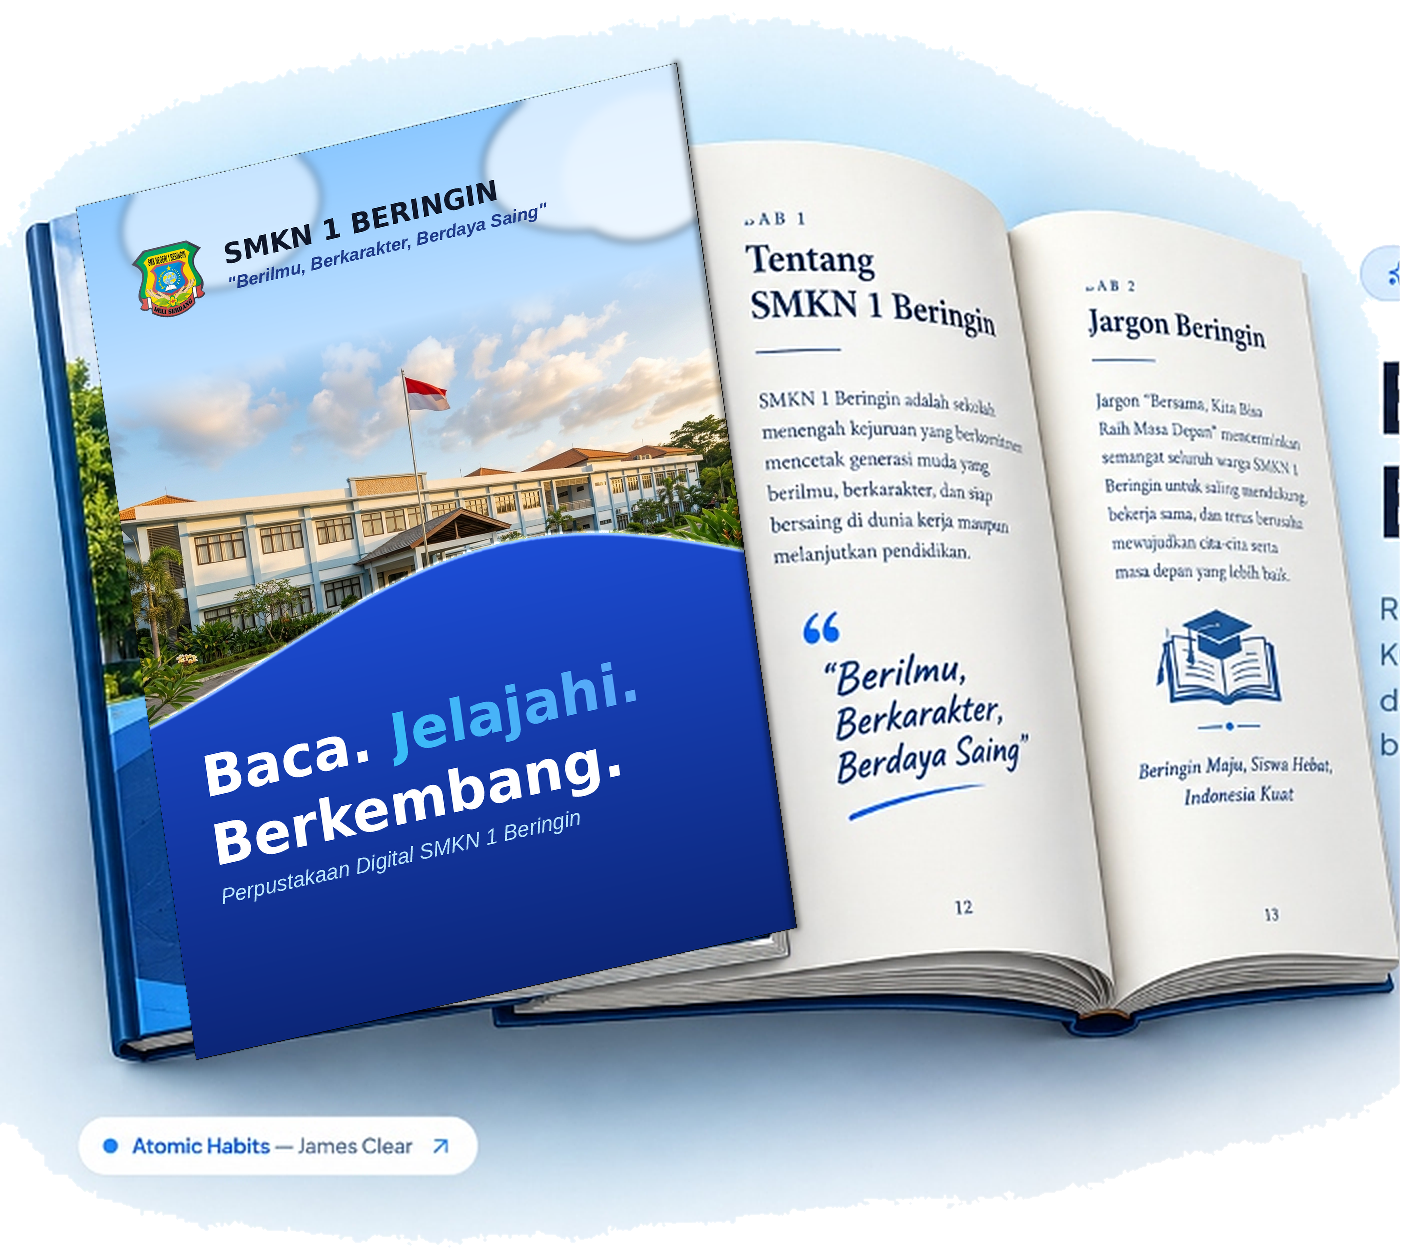
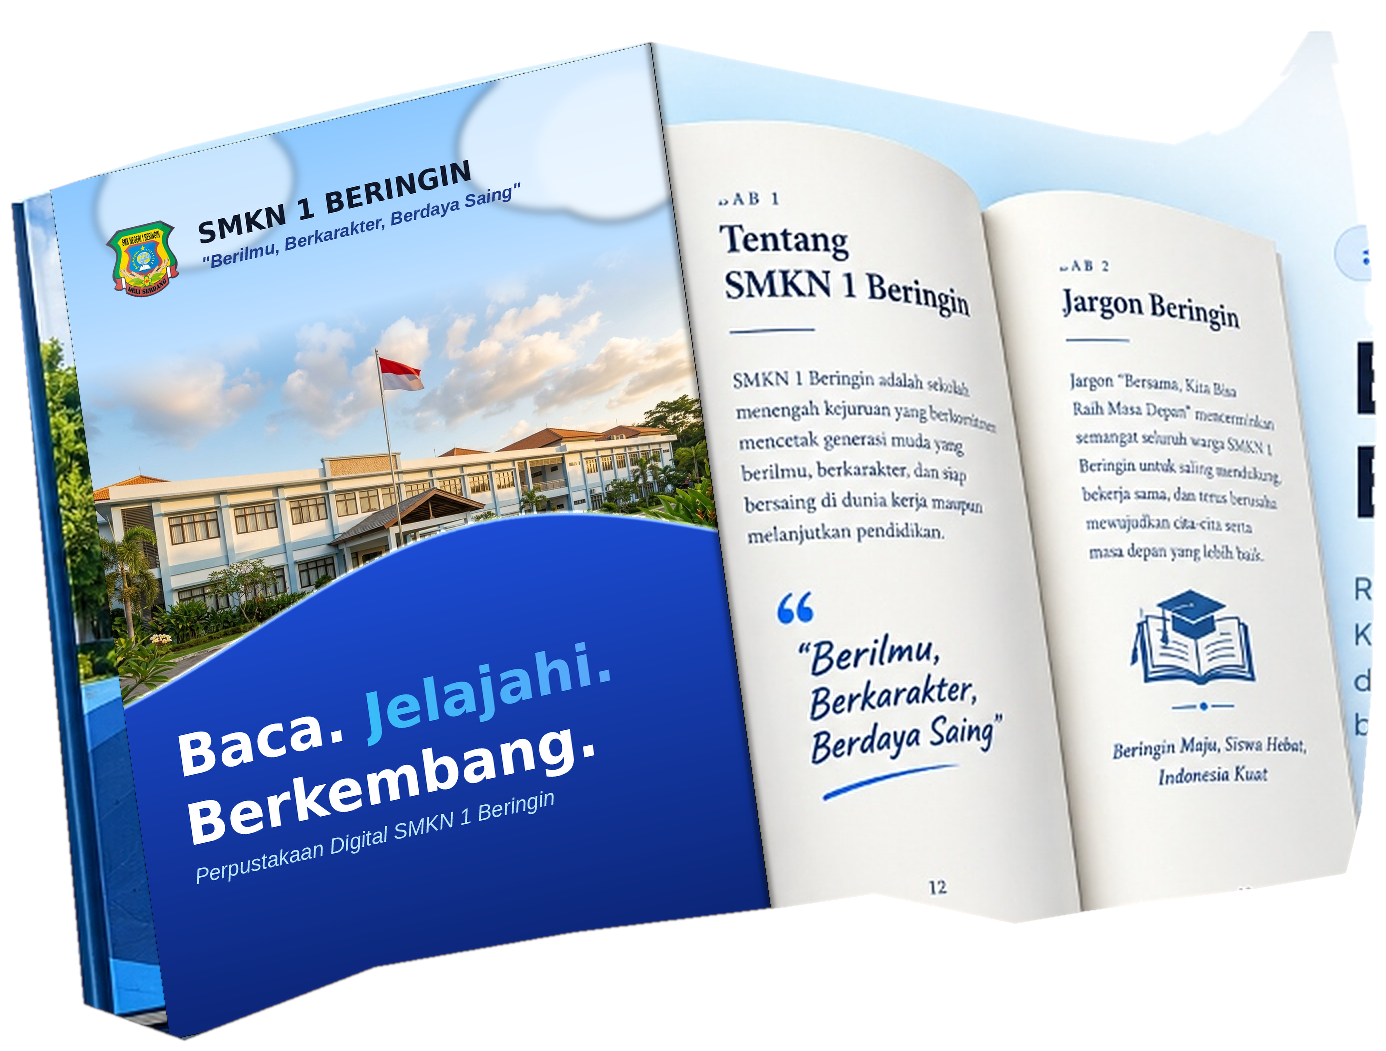
fix(showcase): sempurnakan kontur tepi spine kiri buku terbuka 3D dan tambahkan cache-busting agar browser langsung update

diff --git a/components/katalog/HeroShowcaseSection.tsx b/components/katalog/HeroShowcaseSection.tsx
@@ -143,9 +143,9 @@ export default function HeroShowcaseSection({
         {/* ─── MOBILE LAYOUT (<1024px) ─── */}
         <div className="lg:hidden flex flex-col items-center gap-5 w-full">
           {/* Mobile Open Book Preview - Well proportioned */}
-          <div className="relative w-full max-w-[360px] sm:max-w-[420px] aspect-[1411/1259] flex items-center justify-center my-1 drop-shadow-2xl">
+          <div className="relative w-full max-w-[360px] sm:max-w-[420px] aspect-[1386/1051] flex items-center justify-center my-1 drop-shadow-2xl">
             <img
-              src="/assets/showcase/buku-smkn1-beringin.png"
+              src="/assets/showcase/buku-3d-open-beringin.png?v=3.2"
               alt="Buku Profil SMKN 1 Beringin"
               className="w-full h-full object-contain select-none pointer-events-none"
               draggable={false}
@@ -260,7 +260,7 @@ export default function HeroShowcaseSection({
               >
                 {/* Clean transparent 3D open book featuring real SMKN 1 Beringin building & logo */}
                 <img
-                  src="/assets/showcase/buku-smkn1-beringin.png"
+                  src="/assets/showcase/buku-3d-open-beringin.png?v=3.2"
                   alt="Buku Profil Perpustakaan SMKN 1 Beringin"
                   className="w-full h-auto object-contain select-none pointer-events-none drop-shadow-2xl"
                   draggable={false}

diff --git a/scripts/generate-book-showcase.py b/scripts/generate-book-showcase.py
@@ -33,7 +33,8 @@ BASE_DIR = os.path.dirname(os.path.dirname(os.path.abspath(__file__)))
 LOGO_PATH = os.path.join(BASE_DIR, "public/assets/logo.png")
 BUILDING_PATH = os.path.join(BASE_DIR, "public/assets/gedung-smk.jpg")
 TEMPLATE_PATH = os.path.join(BASE_DIR, "public/assets/showcase/template-open-book.jpg")
-OUTPUT_PATH = os.path.join(BASE_DIR, "public/assets/showcase/buku-smkn1-beringin.png")
+OUTPUT_PATH = os.path.join(BASE_DIR, "public/assets/showcase/buku-3d-open-beringin.png")
+OUTPUT_LEGACY_PATH = os.path.join(BASE_DIR, "public/assets/showcase/buku-smkn1-beringin.png")
 
 # Font Fallback
 FONT_BOLD = "/usr/share/fonts/truetype/dejavu/DejaVuSans-Bold.ttf"
@@ -173,7 +174,6 @@ def main():
     # 4. Subtitle Cover
     draw.text((title_x + 4, title_y + 275), SUBTITLE_COVER, font=font_sub, fill=(186, 230, 253, 230))
 
-    # Konversi ke OpenCV BGR
     cover_2d_np = cv2.cvtColor(np.array(cover), cv2.COLOR_RGBA2BGR)
 
     # ==============================================================================
@@ -187,12 +187,12 @@ def main():
     base_2x = base_pil.resize((base_pil.width * 2, base_pil.height * 2), Image.Resampling.LANCZOS)
     base_np = cv2.cvtColor(np.array(base_2x), cv2.COLOR_RGB2BGR)
 
-    # Penajaman halaman terbuka pada sisi kanan
+    # Penajaman halus halaman terbuka pada sisi kanan
     gaussian = cv2.GaussianBlur(base_np, (0, 0), 2.0)
     base_sharp = cv2.addWeighted(base_np, 1.35, gaussian, -0.35, 0)
     bh, bw, _ = base_sharp.shape
 
-    # Koordinat 4 sudut cover depan pada skala 2x (76, 296), (676, 152), (796, 1016), (196, 1148)
+    # Koordinat 4 sudut cover depan pada skala 2x
     src_pts = np.float32([[0, 0], [CW, 0], [CW, CH], [0, CH]])
     dst_pts_2x = np.float32([[76, 296], [676, 152], [796, 1016], [196, 1148]])
 
@@ -217,31 +217,62 @@ def main():
         composite[:, :, c] = np.clip(composite[:, :, c].astype(np.float32) * (1.0 - spine_crease * 0.35), 0, 255).astype(np.uint8)
 
     # ==============================================================================
-    # ✂ 3/4 ISOLASI BUKU TERBUKA & MASK TRANSPARAN ULTRA BERSIH
+    # ✂ 3/4 ISOLASI BUKU TERBUKA DENGAN KONTUR PRESISI TANPA HALO
     # ==============================================================================
     print("✂ 3/4 Memisahkan latar belakang & defringing antialias...")
+
+    # Poligon batas luar presisi buku terbuka (menghilangkan sisa latar di kiri spine)
+    book_poly_2x = np.array([
+        [38, 312],     # Puncak spine kiri
+        [200, 260],
+        [400, 210],
+        [550, 178],
+        [676, 152],    # Puncak engsel tengah (spine top)
+        [750, 168],
+        [850, 188],
+        [950, 208],
+        [1040, 226],
+        [1120, 244],
+        [1200, 255],
+        [1260, 230],
+        [1310, 180],
+        [1350, 120],    # Puncak kanan halaman 13
+        [1380, 240],
+        [1395, 380],
+        [1400, 520],
+        [1398, 660],
+        [1395, 800],
+        [1385, 920],
+        [1370, 980],    # Ujung kanan bawah halaman 13
+        [1280, 995],
+        [1160, 1010],
+        [1040, 1030],
+        [900, 1000],
+        [796, 1016],    # Dasar engsel tengah (spine bottom)
+        [600, 1040],
+        [400, 1075],
+        [210, 1148],    # Sudut bawah cover depan
+        [110, 1112],    # Dasar spine kiri
+        [92, 912],
+        [74, 712],
+        [56, 512],
+        [38, 312]      # Kembali ke puncak spine kiri
+    ], dtype=np.int32)
+
+    poly_mask = np.zeros((bh, bw), dtype=np.uint8)
+    cv2.fillPoly(poly_mask, [book_poly_2x], 255)
+
+    # Deteksi warna foreground terhadap background asli
     bg_color = np.array([253, 249, 244], dtype=np.float32)
     diff = np.linalg.norm(composite.astype(np.float32) - bg_color, axis=2)
+    color_mask = (diff > 10).astype(np.uint8) * 255
 
-    # Batasi hanya area buku (x < 1400)
-    seg_mask = np.zeros((bh, bw), dtype=np.uint8)
-    seg_mask[:, :1400] = (diff[:, :1400] > 14).astype(np.uint8) * 255
+    # Core poligon solid + tepi halus
+    core_poly = cv2.erode(poly_mask, cv2.getStructuringElement(cv2.MORPH_ELLIPSE, (15, 15)))
+    final_mask = np.maximum(core_poly, cv2.bitwise_and(poly_mask, color_mask))
 
-    # Filter komponen terbesar (hanya buku terbuka utuh)
-    num_labels, labels, stats, centroids = cv2.connectedComponentsWithStats(seg_mask)
-    areas = stats[1:, cv2.CC_STAT_AREA]
-    largest_idx = 1 + np.argmax(areas)
-    clean_mask = (labels == largest_idx).astype(np.uint8) * 255
-
-    # Isi seluruh celah/lubang di dalam area buku
-    contours, hierarchy = cv2.findContours(clean_mask, cv2.RETR_EXTERNAL, cv2.CHAIN_APPROX_SIMPLE)
-    filled_mask = np.zeros_like(clean_mask)
-    cv2.drawContours(filled_mask, contours, -1, 255, -1)
-
-    # Erosi 1px & Gaussian blur untuk tepian antialiased tanpa artefak putih
-    kernel = cv2.getStructuringElement(cv2.MORPH_ELLIPSE, (3, 3))
-    eroded_mask = cv2.erode(filled_mask, kernel, iterations=1)
-    smooth_alpha = cv2.GaussianBlur(eroded_mask.astype(np.float32), (3, 3), 0.7)
+    # Antialiasing gaussian sub-pixel
+    smooth_alpha = cv2.GaussianBlur(final_mask.astype(np.float32), (5, 5), 1.0)
 
     # Unmatte: hilangkan kontribusi warna background dari pixel semi-transparan
     a_norm = np.clip(smooth_alpha / 255.0, 0.0, 1.0)[:, :, np.newaxis]
@@ -259,7 +290,7 @@ def main():
 
     # Crop presisi ke bounding box non-transparan
     y_indices, x_indices = np.where(smooth_alpha > 8)
-    pad = 12
+    pad = 10
     ymin = max(0, y_indices.min() - pad)
     ymax = min(rgba.shape[0], y_indices.max() + pad)
     xmin = max(0, x_indices.min() - pad)
@@ -274,7 +305,10 @@ def main():
     # ==============================================================================
     os.makedirs(os.path.dirname(OUTPUT_PATH), exist_ok=True)
     trimmed_pil.save(OUTPUT_PATH, optimize=True)
-    print(f"✅ 4/4 Selesai! Aset buku 3D tersimpan di: {OUTPUT_PATH}")
+    trimmed_pil.save(OUTPUT_LEGACY_PATH, optimize=True)
+    print(f"✅ 4/4 Selesai! Aset buku 3D tersimpan di:")
+    print(f"   -> {OUTPUT_PATH}")
+    print(f"   -> {OUTPUT_LEGACY_PATH}")
     print(f"   Dimensi Retina: {trimmed_pil.width} x {trimmed_pil.height} px")
 
 
